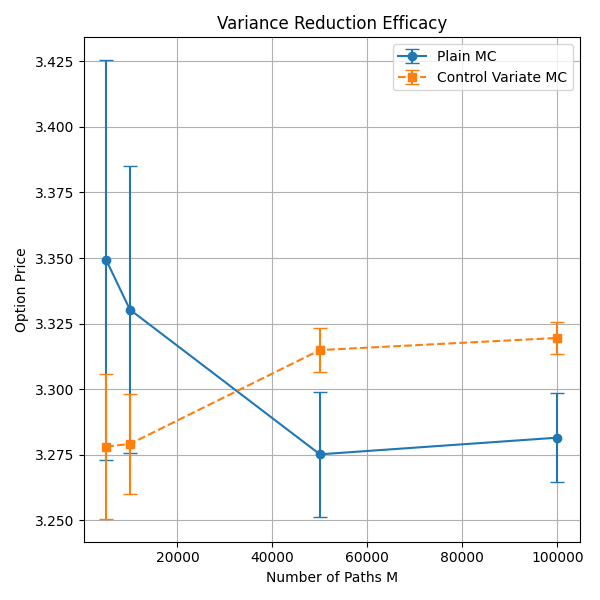
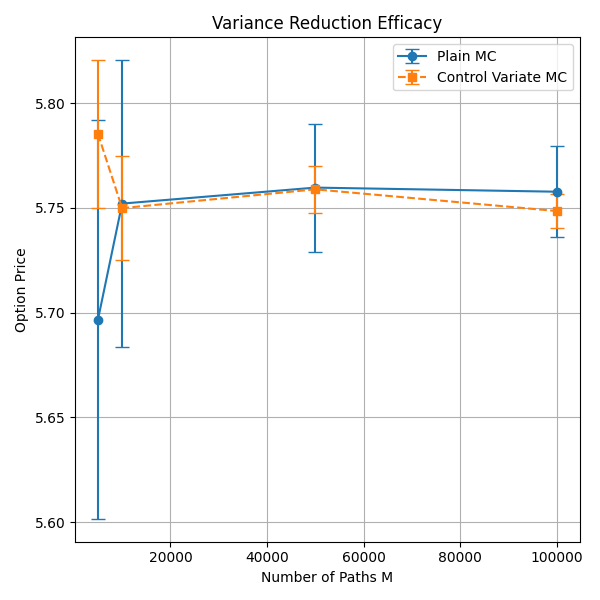
exercise 2

diff --git a/EXERCISE2.2.py b/EXERCISE2.2.py
@@ -126,9 +126,9 @@ def heston_sensitivity(M, S0, V0, K, T, dt, r, rho, kappa, theta, xi, sigma, c, 
 
 # --- Main analysis script ---
 if __name__ == "__main__":
-    S0, V0, K, T = 100.0, 0.04, 105.0, 1.0
-    r, rho, kappa, theta, xi = 0.05, -0.7, 2.0, 0.04, 0.25
-    sigma = np.sqrt(theta); c = 1.0; seed = 69; dt = 1e-4
+    S0, V0, K, T = 100.0, 0.04, 100.0, 1.0
+    r, rho, kappa, theta, xi = 0.05, -0.7, 2.0, 0.04, 0.3
+    sigma = np.sqrt(theta); c = 1.0; seed = 42; dt = 1e-4
 
     # 1) Euler vs Milstein
     dts = np.logspace(-5, -1, 10)
@@ -204,21 +204,45 @@ if __name__ == "__main__":
     # 5) Variance Reduction Efficacy
     Ms = [5000, 10000, 50000, 100000]
     efficacy = {'M': [], 'plain': [], 'std_plain': [], 'cv': [], 'std_cv': []}
+
     for i, M_paths in enumerate(Ms):
-        out = control_variate_MC(M_paths, S0, V0, K, T, dt, r, rho, kappa, theta, xi, sigma, c, seed+i)
+        out = control_variate_MC(
+            M_paths, S0, V0, K, T, dt,
+            r, rho, kappa, theta, xi, sigma, c,
+            seed + i
+        )
+        print(f"M = {M_paths}: Plain = {out['plain'][0]:.4f} ± {out['plain'][1]:.4f}, "
+              f"CV = {out['control_var'][0]:.4f} ± {out['control_var'][1]:.4f}")
+    
         efficacy['M'].append(M_paths)
-        efficacy['plain'].append(out['plain'][0]); efficacy['std_plain'].append(out['plain'][1])
-        efficacy['cv'].append(out['control_var'][0]); efficacy['std_cv'].append(out['control_var'][1])
-    # Plot efficacy
+        efficacy['plain'].append(out['plain'][0])
+        efficacy['std_plain'].append(out['plain'][1])
+        efficacy['cv'].append(out['control_var'][0])
+        efficacy['std_cv'].append(out['control_var'][1])
+
     plt.figure(figsize=(6,6))
-    plt.errorbar(efficacy['M'], efficacy['plain'], yerr=efficacy['std_plain'], fmt='o-', label='Plain MC', capsize=5)
-    plt.errorbar(efficacy['M'], efficacy['cv'],    yerr=efficacy['std_cv'],    fmt='s--', label='Control Variate MC', capsize=5)
-    plt.xlabel('Number of Paths M'); plt.ylabel('Option Price'); plt.title('Variance Reduction Efficacy'); plt.legend(); plt.grid(); plt.tight_layout()
+    plt.errorbar(
+        efficacy['M'], efficacy['plain'],
+        yerr=efficacy['std_plain'],
+        fmt='o-', label='Plain MC', capsize=5
+    )
+    plt.errorbar(
+    efficacy['M'], efficacy['cv'],
+    yerr=efficacy['std_cv'],
+    fmt='s--', label='Control Variate MC', capsize=5
+)
+    plt.xlabel('Number of Paths M')
+    plt.ylabel('Option Price')
+    plt.title('Variance Reduction Efficacy')
+    plt.legend()
+    plt.grid()
+    plt.tight_layout()
     plt.savefig(os.path.join(FIG_DIR, "2.4(a).png"))
     plt.show()
 
+
     # 6) Sensitivity analysis with errorbars
-    def plot_sensitivity(param, title, xlabel):
+    def plot_single_sensitivity(param, title, xlabel, filename):
         grid, res = heston_sensitivity(10000, S0, V0, K, T, dt, r, rho, kappa, theta, xi, sigma, c, seed, param)
         print(f"--- Sensitivity: {title} ---")
         print(f"{xlabel} grid: {grid}")
@@ -226,19 +250,39 @@ if __name__ == "__main__":
         print(f"Plain MC SE    : {res['std_plain']}")
         print(f"CV    prices   : {res['cv']}")
         print(f"CV    SE       : {res['std_cv']}\n")
-        plt.errorbar(grid - 0.02*grid, res['plain'], yerr=res['std_plain'], fmt='o', label='Plain MC', capsize=4)
-        plt.errorbar(grid + 0.02*grid, res['cv'],    yerr=res['std_cv'],    fmt='x', label='CV MC',    capsize=4)
-        plt.title(title); plt.xlabel(xlabel); plt.ylabel('Option Price'); plt.legend(); plt.grid()
-        
-    plt.figure(figsize=(10,6))
-    plt.subplot(1,3,1)
-    plot_sensitivity({'name':'xi','range':(0.1,1.0),'points':5}, 'Price vs xi', 'xi')
-    plt.subplot(1,3,2)
-    plot_sensitivity({'name':'rho','range':(-0.9,0.5),'points':5}, 'Price vs rho', 'rho')
-    plt.subplot(1,3,3)
-    plot_sensitivity({'name':'K','range':(80,120),'points':5}, 'Price vs K', 'K')
-    plt.tight_layout(); plt.savefig(os.path.join(FIG_DIR, "2.4(b).png"))
-    plt.show()
+        plt.figure(figsize=(5, 4))
+        plt.errorbar(
+            grid - 0.02 * np.array(grid), res['plain'], yerr=res['std_plain'],
+            fmt='o', label='Plain MC', capsize=4
+        )
+        plt.errorbar(
+            grid + 0.02 * np.array(grid), res['cv'], yerr=res['std_cv'],
+            fmt='x', label='CV MC', capsize=4
+        )
+        plt.title(title)
+        plt.xlabel(xlabel)
+        plt.ylabel('Option Price')
+        plt.legend()
+        plt.grid(True)
+        plt.tight_layout()
+        plt.savefig(os.path.join(FIG_DIR, filename))
+        plt.close()
+
+
+    
+    plot_single_sensitivity(
+        {'name': 'xi', 'range': (0.1, 1.0), 'points': 5},
+        'Price vs xi', 'xi', '2.4b_xi.png'
+    )
+    plot_single_sensitivity(
+        {'name': 'rho', 'range': (-0.9, 0.5), 'points': 5},
+        'Price vs rho', 'rho', '2.4b_rho.png'
+    )
+    plot_single_sensitivity(
+        {'name': 'K', 'range': (95, 105), 'points': 5},
+        'Price vs K', 'K', '2.4b_K.png'
+    )
+
 
     # 7) Optimal c and plain comparison
     X, Y = res['payoffs']
